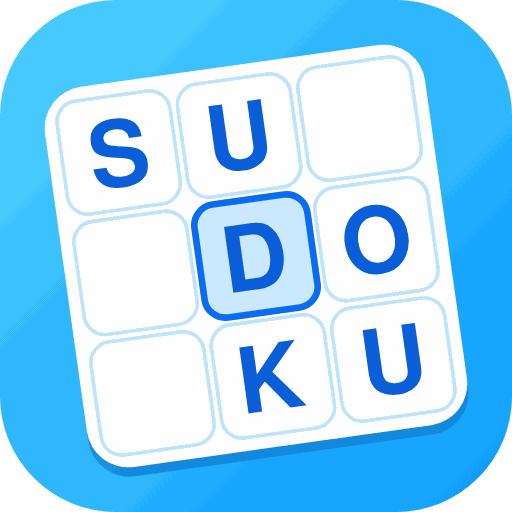
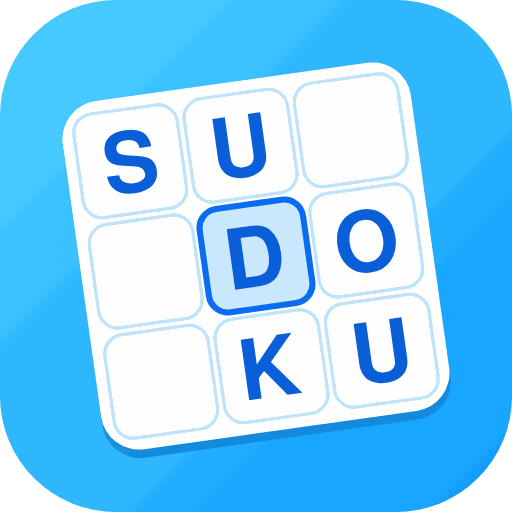
Add files via upload

Changed region(s): [[0.0625, 0.0625, 0.9375, 0.9375]]

diff --git a/index.html b/index.html
@@ -10,8 +10,8 @@
 <meta name="author" content="Offline is King">
 <meta name="description" content="Sudoku by Offline is King. Offline, no ads.">
 <link rel="manifest" href="manifest.webmanifest">
-<link rel="icon" type="image/png" sizes="192x192" href="icons/icon-192.png">
-<link rel="apple-touch-icon" href="icons/icon-192.png">
+<link rel="icon" type="image/png" sizes="192x192" href="icons/icon-192.png?v=15">
+<link rel="apple-touch-icon" href="icons/icon-192.png?v=15">
 <style>
[2 lines of base64/hex data omitted]
@@ -244,7 +244,7 @@ body.paused .tools, body.paused .pad{opacity:.35; pointer-events:none}
 <div class="splash" id="splash" role="status" aria-live="polite">
 <svg xmlns="http://www.w3.org/2000/svg" viewBox="0 0 512 512" width="150" height="150" aria-hidden="true"><defs><linearGradient id="splashbg" x1="0" y1="0" x2="1" y2="1"><stop offset="0" stop-color="#4FD2FF"/><stop offset="1" stop-color="#0A9BFF"/></linearGradient></defs>
 <rect width="512" height="512" rx="116" fill="url(#splashbg)"/>
-<g transform="translate(256 256) scale(0.95) rotate(-8) translate(-256 -256)">
+<g transform="translate(256 256) scale(0.87) rotate(-8) translate(-256 -256)">
 <rect x="54.0" y="64.0" width="404" height="404" rx="44" fill="#003F8F" opacity="0.30"/>
 <rect x="54.0" y="54.0" width="404" height="404" rx="44" fill="#FFFFFF"/>
 <rect x="68.0" y="68.0" width="120.0" height="120.0" rx="22" fill="#FFFFFF" stroke="#BFE3FB" stroke-width="4"/>

diff --git a/sw.js b/sw.js
@@ -1,7 +1,7 @@
 // Sudoku by Offline is King.
 // Offline support: everything the app needs is cached on first visit.
 // Bump VERSION whenever you upload a new index.html so phones pick up the update.
-const VERSION = "sudoku-v14";
+const VERSION = "sudoku-v15";
 const ASSETS = ["./", "./index.html", "./manifest.webmanifest",
   "./icons/icon-192.png", "./icons/icon-512.png", "./icons/icon-maskable-512.png"];
 
